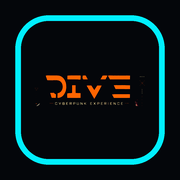
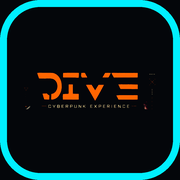
fix: allinea altezza colonne Scheda PG e ripristina bordo esterno icona PWA

diff --git a/index.html b/index.html
@@ -758,7 +758,7 @@
           </div>
         </div>
 
-        <div class="grid grid-cols-1 lg:grid-cols-12 gap-6 items-start">
+        <div class="grid grid-cols-1 lg:grid-cols-12 gap-6 items-stretch">
 
           <!-- COLONNA SINISTRA: SCHEDA PG -->
           <div class="lg:col-span-8 flex flex-col gap-4 min-w-0">
@@ -1381,7 +1381,7 @@
                     <span>DATASHARD PAYLOG</span>
                   </div>
 
-                  <div id="transaction-history-list" class="space-y-1.5 max-h-36 overflow-y-auto pr-1 font-mono text-xs">
+                  <div id="transaction-history-list" class="space-y-1.5 max-h-48 overflow-y-auto pr-1 font-mono text-xs">
                     <!-- Populated via JS -->
                   </div>
                 </div>
@@ -1389,9 +1389,9 @@
             </div>
 
         <!-- SEZIONE VERTICALE 4: CYBERDECK (SCANNER QR & OVERRIDE 5S) -->
-        <div id="sec-deck" class="scroll-mt-20 flex flex-col gap-3">
+        <div id="sec-deck" class="scroll-mt-20 flex-1 flex flex-col gap-3">
 
-      <div class="cyber-panel hud-bracket p-3.5 space-y-2.5">
+      <div class="cyber-panel hud-bracket p-3.5 flex-1 flex flex-col justify-between gap-3">
         <div class="space-y-2.5">
           <div class="pb-2 border-b border-white/10">
             <div class="text-dive-cyan font-mono text-xs uppercase tracking-widest font-semibold mb-0.5">
@@ -1416,7 +1416,7 @@
             <span class="flex items-center gap-1.5 text-dive-orange font-semibold"><span class="w-2 h-2 rounded-full bg-dive-orange"></span> Player</span>
           </div>
 
-          <div class="relative w-full h-28 rounded-sm overflow-hidden bg-black border border-white/15 flex items-center justify-center">
+          <div class="relative w-full h-36 rounded-sm overflow-hidden bg-black border border-white/15 flex items-center justify-center">
             <div id="qr-reader" class="absolute inset-0 w-full h-full"></div>
             
             <div id="camera-placeholder" class="absolute inset-0 z-10 flex flex-col items-center justify-center gap-2 p-3 text-center">
